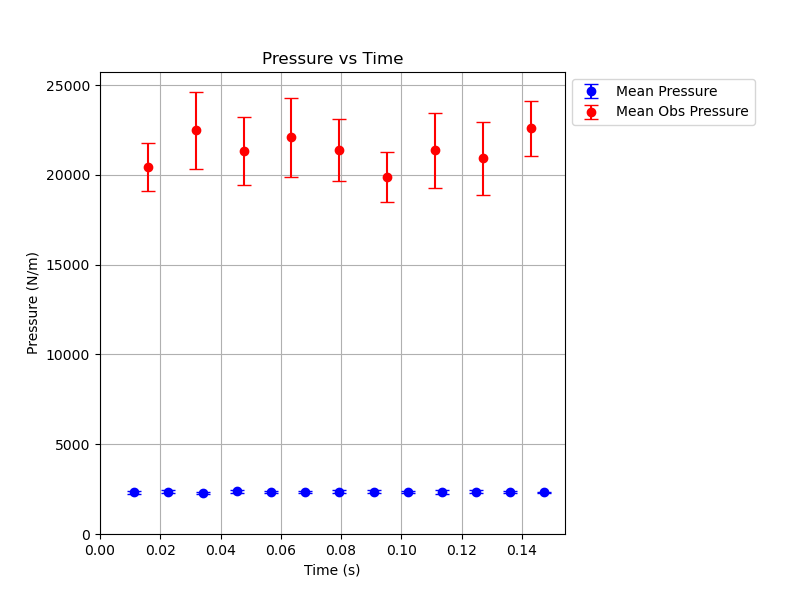
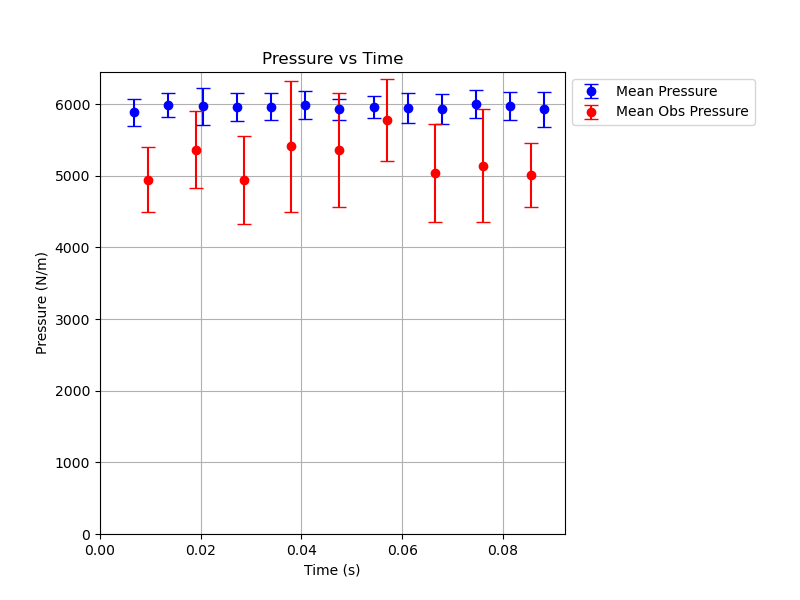
plotters

diff --git a/plotter/pressure_velocity_plotter.py b/plotter/pressure_velocity_plotter.py
@@ -1,0 +1,141 @@
+import os
+import subprocess
+
+import matplotlib.pyplot as plt
+import numpy as np
+import pandas as pd
+
+obstacle_radius = 0.005
+particle_radius = 0.001
+obstacle_perimeter = 2 * np.pi * obstacle_radius
+wall_size = 0.1
+walls_perimeter = 4 * wall_size
+
+
+def truncate_pressures(pressures):
+    min_length = min(len(p) for p in pressures)  # Find the length of the smallest array
+    truncated_pressures = [
+        p[:min_length] for p in pressures
+    ]  # Truncate each array to the smallest length
+    return truncated_pressures
+
+
+# Function to calculate the pressure from a single CSV
+def calculate_pressure(file_path):
+    # Read the CSV file
+    df = pd.read_csv(file_path)
+    pressures_in_delta_t = []
+    total_time = 0.0
+    L = walls_perimeter
+    for i, row in df.iterrows():
+        total_time += row["time"]
+        if row["eventType"] == "wallBounceX":
+            pressures_in_delta_t.append(2 * abs(row["a_vx"]))
+        elif row["eventType"] == "wallBounceY":
+            pressures_in_delta_t.append(2 * abs(row["b_vy"]))
+    P = sum(pressures_in_delta_t) / (len(pressures_in_delta_t) * L * total_time)
+    return P
+
+
+def calculate_pressures_obs(file_path):
+    df = pd.read_csv(file_path)
+    pressures_in_delta_t = []
+    total_time = 0.0
+    L = obstacle_perimeter  # The perimeter of the circular obstacle
+
+    for i, row in df.iterrows():
+        total_time += row["time"]
+
+        # Check for obstacle bounces
+        if row["eventType"] == "obstacleBounce":
+            a_x = row["a_x"]
+            a_y = row["a_y"]
+            b_x = row["b_x"]
+            b_y = row["b_y"]
+            a_vx = row["a_vx"]
+            a_vy = row["a_vy"]
+            p_x = (b_x - a_x) / (obstacle_radius + particle_radius)
+            p_y = (b_y - a_y) / (obstacle_radius + particle_radius)
+
+            normal_velocity = abs((p_x * a_vx) + (p_y * a_vy))
+            pressures_in_delta_t.append(2 * normal_velocity)
+
+    P = sum(pressures_in_delta_t) / (len(pressures_in_delta_t) * L * total_time)
+    return P
+
+
+def main():
+    # Initialize list to store pressure values for each run (list of lists)
+    pressures = []
+    obs_pressures = []
+    v_obs_p = []
+    v_p = []
+    velocities = [1, 3, 6, 10]
+
+    for v in velocities:
+        print("v:", v)
+
+        for i in range(1, 11):
+            print("i:", i)
+            file_path = f"../DMDE/events{v}/events_{i}.csv"
+            run_pressures = calculate_pressure(file_path)
+            run_obs_pressures = calculate_pressures_obs(file_path)
+            obs_pressures.append(run_obs_pressures)
+            pressures.append(run_pressures)
+
+        pressures_np = np.array(pressures)
+        obs_pressures_np = np.array(obs_pressures)
+
+        mean_pressures = pressures_np.mean()
+        std_dev_pressures = pressures_np.std()
+        error_pressures = std_dev_pressures / np.sqrt(pressures_np.shape[0])
+
+        obs_mean_pressures = obs_pressures_np.mean()
+        obs_std_dev_pressures = obs_pressures_np.std()
+        obs_error_pressures = obs_std_dev_pressures / np.sqrt(obs_pressures_np.shape[0])
+
+        v_obs_p.append(
+            (v, obs_mean_pressures, obs_std_dev_pressures, obs_error_pressures)
+        )
+        v_p.append((v, mean_pressures, std_dev_pressures, error_pressures))
+        pressures = []
+        obs_pressures = []
+        pressures_np = []
+        obs_pressures_np = []
+
+    df = pd.DataFrame(v_p, columns=["Velocity", "Mean_Pressure", "Std_Dev", "Error"])
+    df_obs = pd.DataFrame(
+        v_obs_p, columns=["Velocity", "Obs_Mean_Pressure", "Std_Dev", "Error"]
+    )
+
+    ax = plt.subplot(111)
+
+    ax.errorbar(
+        df["Velocity"],
+        df["Mean_Pressure"],
+        yerr=df["Error"],
+        fmt="-o",
+        capsize=5,
+        label="Pressure",
+    )
+    ax.errorbar(
+        df_obs["Velocity"],
+        df_obs["Obs_Mean_Pressure"],
+        yerr=df_obs["Error"],
+        fmt="-o",
+        capsize=5,
+        label="Obs_Pressure",
+    )
+    ax.set_xlabel("Velocity (m/s)", fontsize=20)
+    ax.set_ylabel("Mean Pressure (N/m)", fontsize=20)
+
+    # Put the legend outside the plot, top right
+    ax.set_xlim(left=0)
+    ax.set_ylim(bottom=0)
+    ax.grid(True)
+    ax.legend(loc="upper right", fontsize=14, bbox_to_anchor=(1.6, 1))
+    plt.show()
+
+
+if __name__ == "__main__":
+    main()

diff --git a/plotter/pressure_calculation.py b/plotter/pressure_calculation.py
@@ -27,20 +27,26 @@ def calculate_pressure(file_path, delta_t):
     pressures_in_delta_t = []
     delta_counts = 1
     total_time = 0
+    obs_bounce = 0
     L = walls_perimeter
     pressures = []
     for i, row in df.iterrows():
         total_time += row["time"]
         if total_time >= delta_counts * delta_t:
             # print(len(pressures_in_delta_t))
-            P = sum(pressures_in_delta_t) / (len(pressures_in_delta_t) * L * delta_t)
+            P = sum(pressures_in_delta_t) / (
+                (len(pressures_in_delta_t) + obs_bounce) * L * delta_t
+            )
             pressures.append(P)
             delta_counts += 1
             pressures_in_delta_t = []
+            obs_bounce = 0
         if row["eventType"] == "wallBounceX":
             pressures_in_delta_t.append(2 * abs(row["a_vx"]))
         elif row["eventType"] == "wallBounceY":
             pressures_in_delta_t.append(2 * abs(row["b_vy"]))
+        elif row["eventType"] == "obstacleBounce":
+            obs_bounce += 1
     return pressures
 
 
@@ -49,6 +55,7 @@ def calculate_pressures_obs(file_path, obs_delta_t):
     pressures_in_delta_t = []
     delta_counts = 1
     total_time = 0
+    wall_bounce = 0
     L = obstacle_perimeter  # The perimeter of the circular obstacle
     pressures = []
 
@@ -60,11 +67,12 @@ def calculate_pressures_obs(file_path, obs_delta_t):
             print(len(pressures_in_delta_t))
             if pressures_in_delta_t:  # Avoid division by zero
                 P = sum(pressures_in_delta_t) / (
-                    len(pressures_in_delta_t) * L * obs_delta_t
+                    (len(pressures_in_delta_t) + wall_bounce) * L * obs_delta_t
                 )
                 pressures.append(P)
             delta_counts += 1
             pressures_in_delta_t = []
+            wall_bounce = 0
 
         # Check for obstacle bounces
         if row["eventType"] == "obstacleBounce":
@@ -81,6 +89,8 @@ def calculate_pressures_obs(file_path, obs_delta_t):
             pressures_in_delta_t.append(
                 2 * normal_velocity
             )  # Double the normal velocity as force
+        elif row["eventType"] != "particleBounce":
+            wall_bounce += 1
 
     return pressures
 

diff --git a/plotter/DCM.py b/plotter/DCM.py
@@ -1,0 +1,20 @@
+import matplotlib.pyplot as plt
+import numpy as np
+import pandas as pd
+
+delta_t = 0.005
+particle_id = 300
+
+
+def main():
+    positions = []
+    msd = []
+
+    for i in range(1, 10):
+        filepath_out = f"../DMDE/outputs/output_{i}.csv"
+        filepath_ev = f"../DMDE/events_movable/events_{i}.csv"
+        positions = get_positions(filepath_out)
+
+
+if __name__ == "__main__":
+    main()
